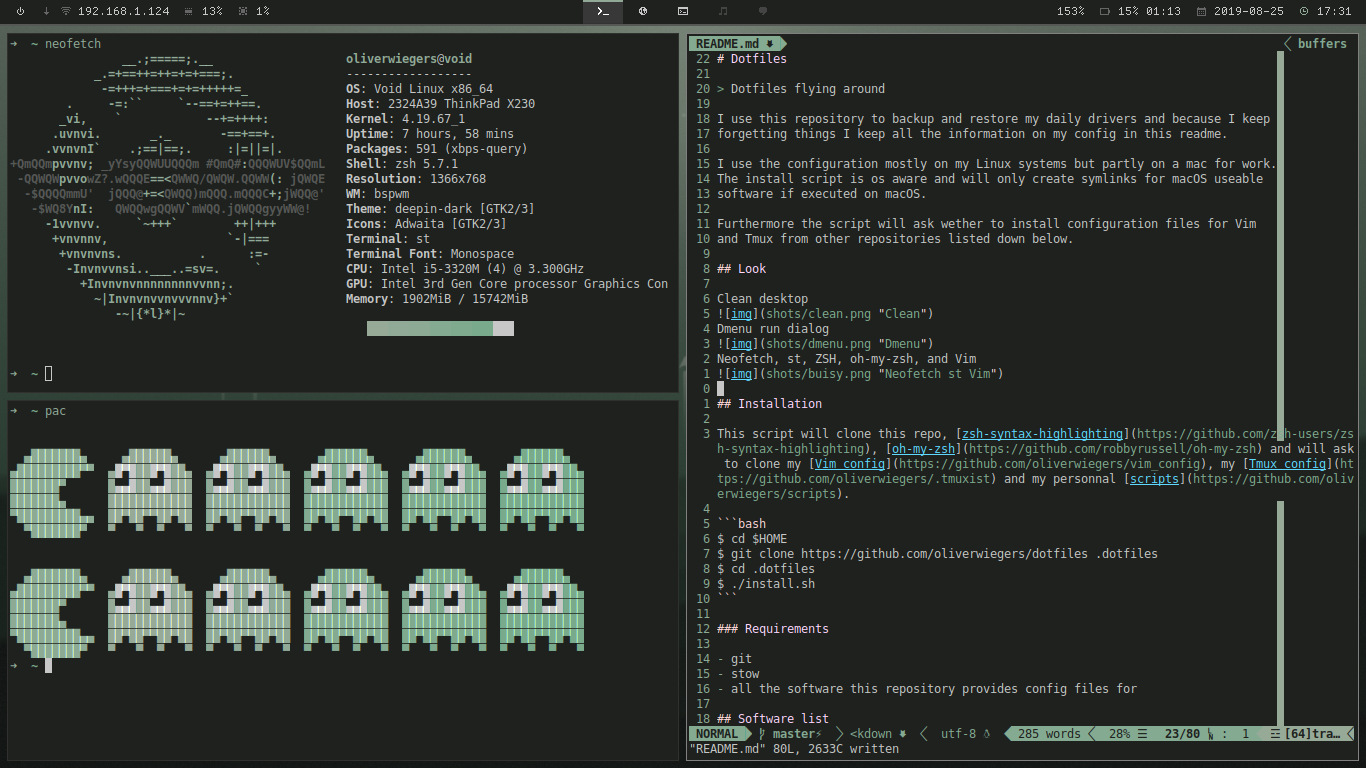
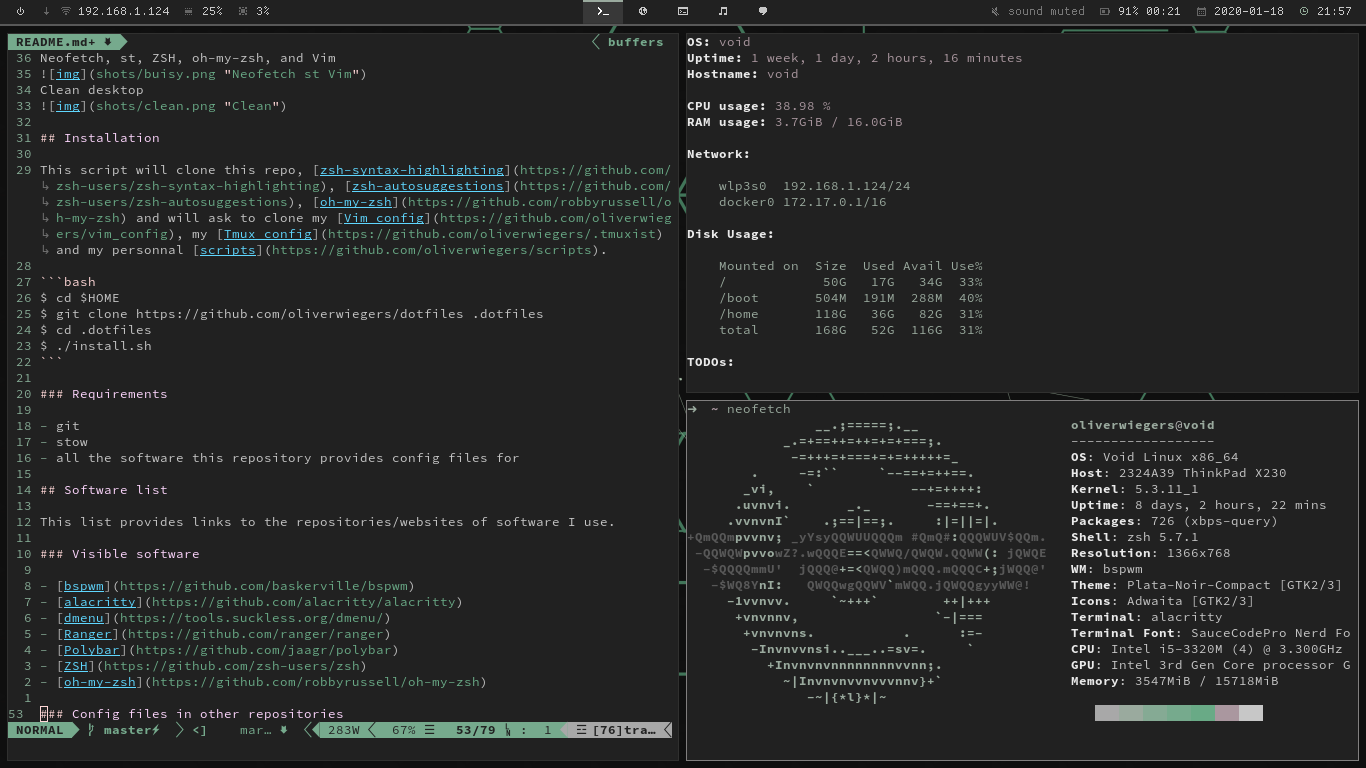
updated readme and added new screenshots

Changed region(s): [[0.0, 0.0, 1.0, 1.0]]

diff --git a/README.md b/README.md
@@ -21,7 +21,7 @@ Clean desktop
 
 ## Installation
 
-This script will clone this repo, [zsh-syntax-highlighting](https://github.com/zsh-users/zsh-syntax-highlighting), [oh-my-zsh](https://github.com/robbyrussell/oh-my-zsh) and will ask to clone my [Vim config](https://github.com/oliverwiegers/vim_config), my [Tmux config](https://github.com/oliverwiegers/.tmuxist) and my personnal [scripts](https://github.com/oliverwiegers/scripts).
+This script will clone this repo, [zsh-syntax-highlighting](https://github.com/zsh-users/zsh-syntax-highlighting), [zsh-autosuggestions](https://github.com/zsh-users/zsh-autosuggestions), [oh-my-zsh](https://github.com/robbyrussell/oh-my-zsh) and will ask to clone my [Vim config](https://github.com/oliverwiegers/vim_config), my [Tmux config](https://github.com/oliverwiegers/.tmuxist) and my personnal [scripts](https://github.com/oliverwiegers/scripts).
 
 ```bash
 $ cd $HOME
@@ -43,7 +43,7 @@ This list provides links to the repositories/websites of software I use.
 ### Visible software
 
 - [bspwm](https://github.com/baskerville/bspwm)
-- [st](https://st.suckless.org/)
+- [alacritty](https://github.com/alacritty/alacritty)
 - [dmenu](https://tools.suckless.org/dmenu/)
 - [Ranger](https://github.com/ranger/ranger)
 - [Polybar](https://github.com/jaagr/polybar)
@@ -66,6 +66,7 @@ seen in the screenshots.
 - [Zathura](https://git.pwmt.org/pwmt/zathura)
 - [gpicview](https://github.com/onlyshk/GPicView)
 - [Ranger](https://github.com/ranger/ranger)
+- [bat](https://github.com/sharkdp/bat)
 
 ### Software I also use
 
